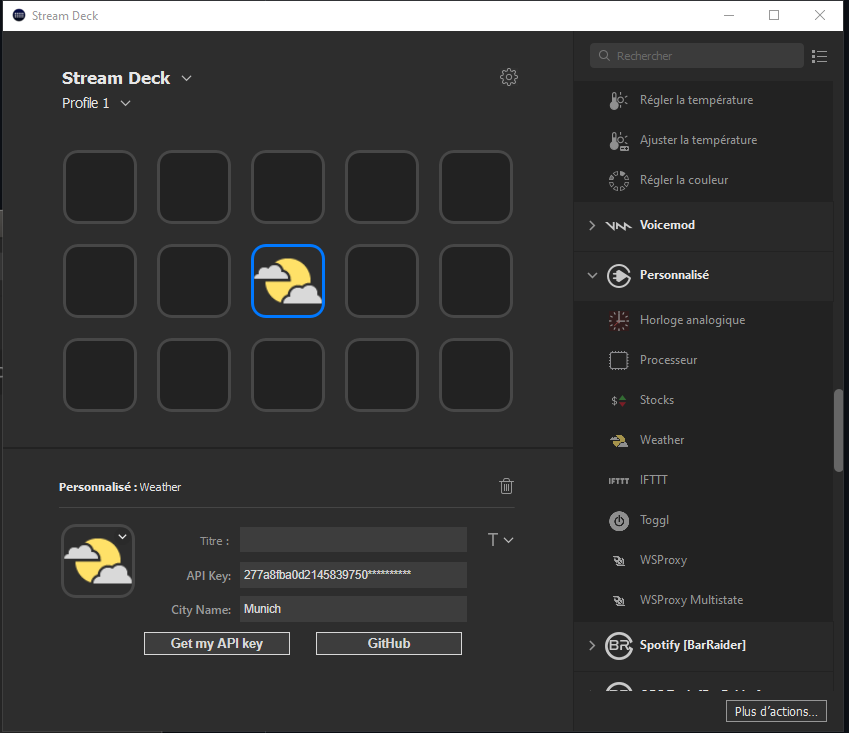
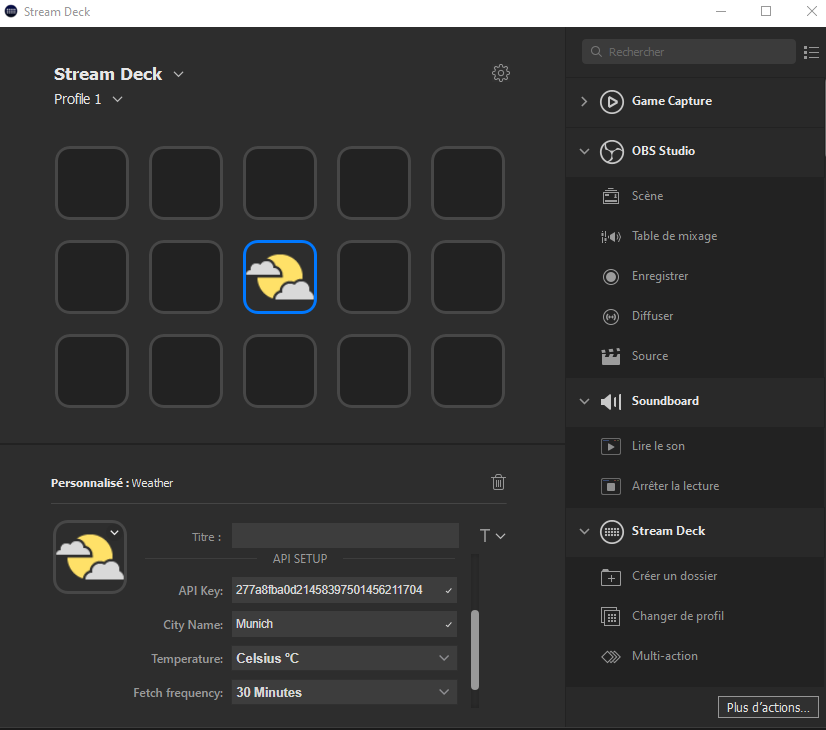
:arrow_up: Added functionality of fetching frequency and temperature units

diff --git a/Sources/com.jk.weather.sdPlugin/plugin/main.js b/Sources/com.jk.weather.sdPlugin/plugin/main.js
@@ -21,69 +21,33 @@ function connectElgatoStreamDeckSocket(inPort, inPluginUUID, inRegisterEvent, in
     websocket.onmessage = function (evt) {
         // Received message from Stream Deck
         const jsonObj = JSON.parse(evt.data);
-        let context = jsonObj['context'];
+        const context = jsonObj['context'];
 
         if (jsonObj['event'] === "keyUp") {
             let cityName = "";
-            if (jsonObj.payload.settings != null && jsonObj.payload.settings.hasOwnProperty('cityName')) {
+            let unit = "";
+            let frequency = null;
+            if (
+                jsonObj.payload.settings != null &&
+                jsonObj.payload.settings.hasOwnProperty('cityName') &&
+                jsonObj.payload.settings.hasOwnProperty('unit') &&
+                jsonObj.payload.settings.hasOwnProperty('frequency')
+            ) {
                 cityName = jsonObj.payload.settings["cityName"];
+                unit = jsonObj.payload.settings["unit"];
+                frequency = (jsonObj.payload.settings["frequency"] !== "0") ? parseInt(jsonObj.payload.settings["frequency"]) : false;
             }
 
             if (cityName === "" || apiKey === "") {
-                console.log('Missing fields here...');
                 const json = {
                     "event": "showAlert",
                     "context": jsonObj.context,
                 };
                 websocket.send(JSON.stringify(json));
             } else {
-                const request = new XMLHttpRequest();
-                request.open("GET", 'https://api.weatherapi.com/v1/current.json?key=' + apiKey + '&q=' + cityName + '&aqi=no');
-                request.send();
-                request.onreadystatechange = function () {
-                    if (request.readyState === XMLHttpRequest.DONE) {
-                        const response = JSON.parse(request.responseText);
-                        const temperature = response.current.temp_c ? response.current.temp_c : "NaN";
-                        let json = {
-                            "event": "setTitle",
-                            "context": context,
-                            "payload": {
-                                "title": "" + temperature + "°C",
-                                "target": 1
-                            }
-                        };
-
-                        websocket.send(JSON.stringify(json));
-
-                        function toDataURL(url, callback) {
-                            let xhr = new XMLHttpRequest();
-                            xhr.onload = function () {
-                                let reader = new FileReader();
-                                reader.onloadend = function () {
-                                    callback(reader.result);
-                                }
-                                reader.readAsDataURL(xhr.response);
-                            };
-                            xhr.open('GET', url);
-                            xhr.responseType = 'blob';
-                            xhr.send();
-                        }
-
-                        if (response.current.condition.icon != null) {
-                            toDataURL("https:" + response.current.condition.icon, function (dataUrl) {
-                                let json = {
-                                    "event": "setImage",
-                                    "context": context,
-                                    "payload": {
-                                        "image": '' + dataUrl,
-                                        "target": 1
-                                    }
-                                };
-
-                                websocket.send(JSON.stringify(json));
-                            })
-                        }
-                    }
+                requestSending(context, cityName, unit);
+                if (frequency) {
+                    setInterval(() => requestSending(context, cityName, unit), frequency);
                 }
             }
         } else if (jsonObj['event'] === "didReceiveGlobalSettings") {
@@ -100,4 +64,63 @@ function connectElgatoStreamDeckSocket(inPort, inPluginUUID, inRegisterEvent, in
             websocket.send(JSON.stringify(json));
         }
     };
+}
+
+
+function requestSending(context, cityName, unit) {
+    console.log('Sending');
+    const request = new XMLHttpRequest();
+    request.open("GET", 'https://api.weatherapi.com/v1/current.json?key=' + apiKey + '&q=' + cityName + '&aqi=no');
+    request.send();
+    request.onreadystatechange = function () {
+        if (request.readyState === XMLHttpRequest.DONE) {
+            const response = JSON.parse(request.responseText);
+            let temperature = "";
+            if (unit === 'celsius') {
+                temperature = response.current.temp_c ? response.current.temp_c + "°C" : "NaN";
+            }
+            if (unit === 'fahrenheit') {
+                temperature = response.current.temp_f ? response.current.temp_f + "°F" : "NaN";
+            }
+            let json = {
+                "event": "setTitle",
+                "context": context,
+                "payload": {
+                    "title": "" + temperature,
+                    "target": 1
+                }
+            };
+
+            websocket.send(JSON.stringify(json));
+
+            function toDataURL(url, callback) {
+                let xhr = new XMLHttpRequest();
+                xhr.onload = function () {
+                    let reader = new FileReader();
+                    reader.onloadend = function () {
+                        callback(reader.result);
+                    }
+                    reader.readAsDataURL(xhr.response);
+                };
+                xhr.open('GET', url);
+                xhr.responseType = 'blob';
+                xhr.send();
+            }
+
+            if (response.current.condition.icon != null) {
+                toDataURL("https:" + response.current.condition.icon, function (dataUrl) {
+                    let json = {
+                        "event": "setImage",
+                        "context": context,
+                        "payload": {
+                            "image": '' + dataUrl,
+                            "target": 1
+                        }
+                    };
+
+                    websocket.send(JSON.stringify(json));
+                })
+            }
+        }
+    }
 }

diff --git a/Sources/com.jk.weather.sdPlugin/pi/main_pi.html b/Sources/com.jk.weather.sdPlugin/pi/main_pi.html
@@ -2,7 +2,7 @@
 <html>
 
 <head>
-    <meta charset="utf-8" />
+    <meta charset="utf-8"/>
     <title>com.jk.weather.pi</title>
     <link rel="stylesheet" href="sdpi.css">
     <script src="main_pi.js"></script>
@@ -10,17 +10,53 @@
 
 <body>
 <div class="sdpi-wrapper hidden">
+    <div class="sdpi-item" id="apiProviderContainer">
+        <div class="sdpi-item-label">Provider</div>
+        <select class="sdpi-item-value select" id="api">
+            <option value="weatherApi">WeatherAPI</option>
+        </select>
+    </div>
+    <div class="sdpi-item">
+        <details class="message info">
+            <summary>Please do not set a title or an image for this plugin as they are being generated on the fly!</summary>
+        </details>
+    </div>
+
+    <div class="sdpi-heading">API SETUP</div>
+
     <div class="sdpi-item">
         <div class="sdpi-item-label">API Key</div>
-        <input class="sdpi-item-value" id="apiKey" value="" onchange="updateApiKey()" placeholder="Enter your WeatherApi Key">
+        <input class="sdpi-item-value" id="apiKey" value="" onchange="updateApiKey()"
+               placeholder="Enter your WeatherApi Key" required>
     </div>
     <div class="sdpi-item">
         <div class="sdpi-item-label">City Name</div>
-        <input class="sdpi-item-value" id="cityName" value="" onchange="updateCityName()" placeholder="Enter the city for the current weather details">
+        <input class="sdpi-item-value" id="cityName" value="" onchange="updateSettings()"
+               placeholder="Enter the city for the current weather details" required>
     </div>
+
+    <div class="sdpi-item">
+        <div class="sdpi-item-label">Temperature</div>
+        <select class="sdpi-item-value select" id="unit" onchange="updateSettings()">
+            <option value="celsius">Celsius °C</option>
+            <option value="fahrenheit">Fahrenheit °F</option>
+        </select>
+    </div>
+
+    <div class="sdpi-item">
+        <div class="sdpi-item-label">Fetch frequency</div>
+        <select class="sdpi-item-value select" id="frequency" onchange="updateSettings()">
+            <option value="0">On push</option>
+            <option value="600000">10 Minutes</option>
+            <option value="1800000">30 Minutes</option>
+            <option value="3600000">1 Hour</option>
+        </select>
+    </div>
+
     <div class="sdpi-item">
         <button class="sdpi-item-value" onclick="openPage('weatherapi.com/my/')">Get my API key</button>
-        <button class="sdpi-item-value" onclick="openPage('github.com/JaouherK/streamDeck-weatherPlugin')">GitHub</button>
+        <button class="sdpi-item-value" onclick="openPage('github.com/JaouherK/streamDeck-weatherPlugin')">GitHub
+        </button>
     </div>
 </div>
 </body>

diff --git a/Sources/com.jk.weather.sdPlugin/pi/main_pi.js b/Sources/com.jk.weather.sdPlugin/pi/main_pi.js
@@ -42,6 +42,18 @@ function connectElgatoStreamDeckSocket(inPort, inPropertyInspectorUUID, inRegist
             if(document.getElementById('cityName').value === "undefined") {
                 document.getElementById('cityName').value = "";
             }
+
+            document.getElementById('frequency').value = payload.frequency;
+
+            if(document.getElementById('frequency').value === "undefined") {
+                document.getElementById('frequency').value = "0";
+            }
+
+            document.getElementById('unit').value = payload.unit;
+
+            if(document.getElementById('unit').value === "undefined") {
+                document.getElementById('unit').value = "celsius";
+            }
         }
         if (jsonObj.event === 'didReceiveGlobalSettings') {
             const payload = jsonObj.payload.settings;
@@ -59,18 +71,19 @@ function connectElgatoStreamDeckSocket(inPort, inPropertyInspectorUUID, inRegist
 
 }
 
-function updateCityName() {
+function updateSettings() {
     if (websocket && (websocket.readyState === 1)) {
         let payload = {};
         payload.cityName = document.getElementById('cityName').value;
+        payload.frequency = document.getElementById('frequency').value;
+        payload.unit = document.getElementById('unit').value;
         const json = {
             "event": "setSettings",
             "context": uuid,
             "payload": payload
         };
         websocket.send(JSON.stringify(json));
-        console.log(json)
-    }    
+    }
 }
 
 function updateApiKey() {
@@ -83,8 +96,7 @@ function updateApiKey() {
             "payload": payload
         };
         websocket.send(JSON.stringify(json));
-        console.log(json)
-    }    
+    }
 }
 
 function openPage(site) {

diff --git a/README.md b/README.md
@@ -1,7 +1,7 @@
 
 # Description
 
-`Weather` is a plugin that displays a weather condition and temperature. It is connected to weatherApi provider and requires an API Key and a city as inputs.
+`Weather` is a plugin that displays a weather condition and temperature. It is connected to weatherApi provider and requires an API Key and a city as required inputs. It has also selection for frequency of fetching and temperature unit.
 
 # Features
 
